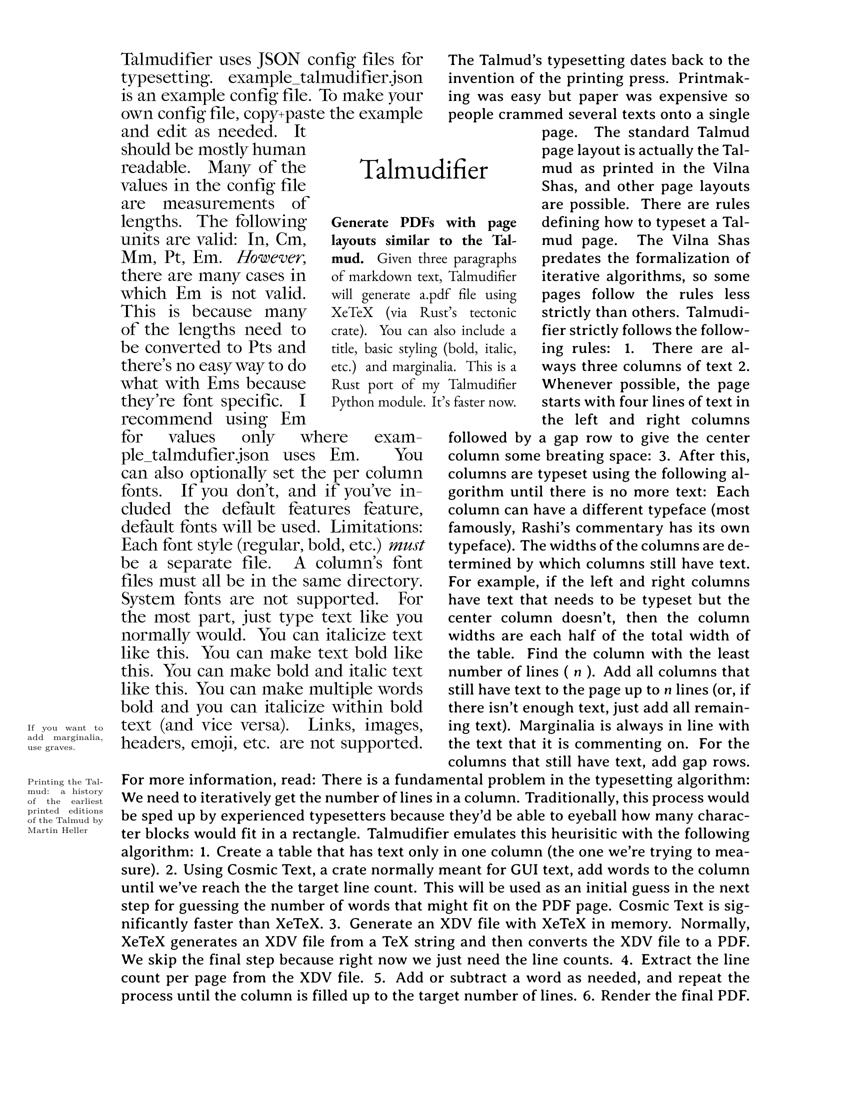
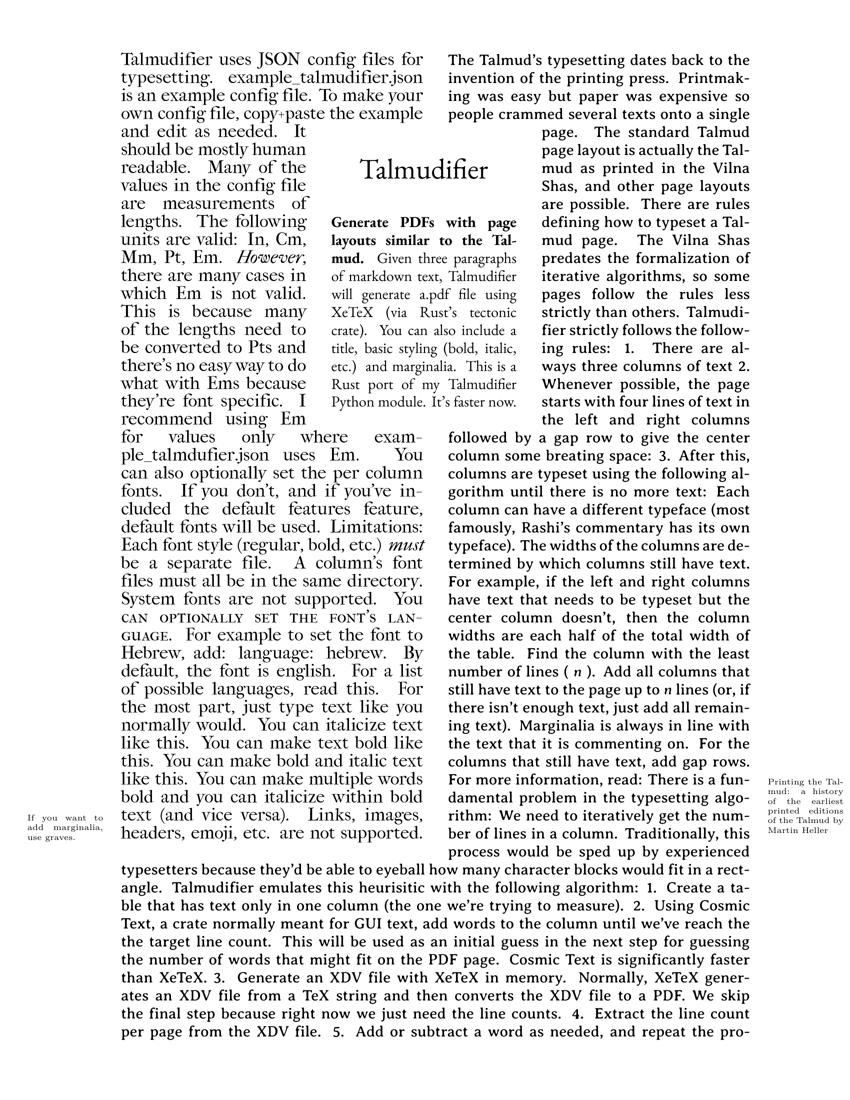
docs

Changed region(s): [[0.0306, 0.5255, 1.0, 0.9582]]

diff --git a/example_text/left.md b/example_text/left.md
@@ -1,1 +1,1 @@
-Talmudifier uses JSON config files for typesetting. example_talmudifier.json is an example config file. To make your own config file, copy+paste the example and edit as needed. It should be mostly human readable. Many of the values in the config file are measurements of lengths. The following units are valid: In, Cm, Mm, Pt, Em. *However*, there are many cases in which Em is not valid. This is because many of the lengths need to be converted to Pts and there's no easy way to do what with Ems because they're font specific. I recommend using Em for values only where example_talmdufier.json uses Em. You can also optionally set the per column fonts. If you don't, and if you've included the default features feature, default fonts will be used. Limitations:  Each font style (regular, bold, etc.) *must* be a separate file.  A column's font files must all be in the same directory.  System fonts are not supported. **You can optionally set the font's language.** For example to set the font to Hebrew, add: language: hebrew. By default, the font is english. For a list of possible languages, read this.  For the most part, just type text like you normally would. You can italicize text like this. You can make text bold like this. You can make bold and italic text like this. You can make multiple words bold and you can italicize within bold text (and vice versa). `If you want to add marginalia, use graves.` Links, images, headers, emoji, etc. are not supported.
+Talmudifier uses JSON config files for typesetting. example_talmudifier.json is an example config file. To make your own config file, copy+paste the example and edit as needed. It should be mostly human readable. Many of the values in the config file are measurements of lengths. The following units are valid: In, Cm, Mm, Pt, Em. *However*, there are many cases in which Em is not valid. This is because many of the lengths need to be converted to Pts and there's no easy way to do what with Ems because they're font specific. I recommend using Em for values only where example_talmdufier.json uses Em. You can also optionally set the per column fonts. If you don't, and if you've included the default features feature, default fonts will be used. Limitations:  Each font style (regular, bold, etc.) *must* be a separate file.  A column's font files must all be in the same directory.  System fonts are not supported. **You can optionally set the font's language.** For example to set the font to Hebrew, add: language: hebrew. text { left: { directory: talmudifier_fonts/left, regular: regular.ttf, italic: italic.ttf, bold: bold.ttf, bold_italic: bold_italic.ttf, language: hebrew } }  By default, the font is english. For a list of possible languages, read this.  For the most part, just type text like you normally would. You can italicize text like this. You can make text bold like this. You can make bold and italic text like this. You can make multiple words bold and you can italicize within bold text (and vice versa). `If you want to add marginalia, use graves.` Links, images, headers, emoji, etc. are not supported.

diff --git a/README.md b/README.md
@@ -152,7 +152,22 @@ Limitations:
 - A column's font files must all be in the same directory.
 - System fonts are not supported.
 
-**You can optionally set the font's language.** For example to set the font to Hebrew, add: `"language": "hebrew"`. By default, the font is `"english"`. For a list of possible languages, [read this](https://texdoc.org/serve/polyglossia/0). 
+**You can optionally set the font's language.** For example to set the font to Hebrew, add: `"language": "hebrew"`.
+
+```text
+{
+  "left": {
+    "directory": "talmudifier_fonts/left",
+    "regular": "regular.ttf",
+    "italic": "italic.ttf",
+    "bold": "bold.ttf",
+    "bold_italic": "bold_italic.ttf",
+    "language": "hebrew"
+  }
+}
+```
+
+By default, the font is `"english"`. For a list of possible languages, [read this](https://texdoc.org/serve/polyglossia/0). 
 
 
 ### Source text

diff --git a/doc/README_rs.md b/doc/README_rs.md
@@ -154,7 +154,22 @@ Limitations:
 - A column's font files must all be in the same directory.
 - System fonts are not supported.
 
-**You can optionally set the font's language.** For example to set the font to Hebrew, add: `"language": "hebrew"`. By default, the font is `"english"`. For a list of possible languages, [read this](https://texdoc.org/serve/polyglossia/0). 
+**You can optionally set the font's language.** For example to set the font to Hebrew, add: `"language": "hebrew"`.
+
+```text
+{
+ "left": {
+ "directory": "talmudifier_fonts/left",
+ "regular": "regular.ttf",
+ "italic": "italic.ttf",
+ "bold": "bold.ttf",
+ "bold_italic": "bold_italic.ttf",
+ "language": "hebrew"
+ }
+}
+```
+
+By default, the font is `"english"`. For a list of possible languages, [read this](https://texdoc.org/serve/polyglossia/0). 
 
 
 ### Source text

diff --git a/doc/fonts.md b/doc/fonts.md
@@ -6,4 +6,19 @@ Limitations:
 - A column's font files must all be in the same directory.
 - System fonts are not supported.
 
-**You can optionally set the font's language.** For example to set the font to Hebrew, add: `"language": "hebrew"`. By default, the font is `"english"`. For a list of possible languages, [read this](https://texdoc.org/serve/polyglossia/0). 
+**You can optionally set the font's language.** For example to set the font to Hebrew, add: `"language": "hebrew"`.
+
+```text
+{
+  "left": {
+    "directory": "talmudifier_fonts/left",
+    "regular": "regular.ttf",
+    "italic": "italic.ttf",
+    "bold": "bold.ttf",
+    "bold_italic": "bold_italic.ttf",
+    "language": "hebrew"
+  }
+}
+```
+
+By default, the font is `"english"`. For a list of possible languages, [read this](https://texdoc.org/serve/polyglossia/0). 
